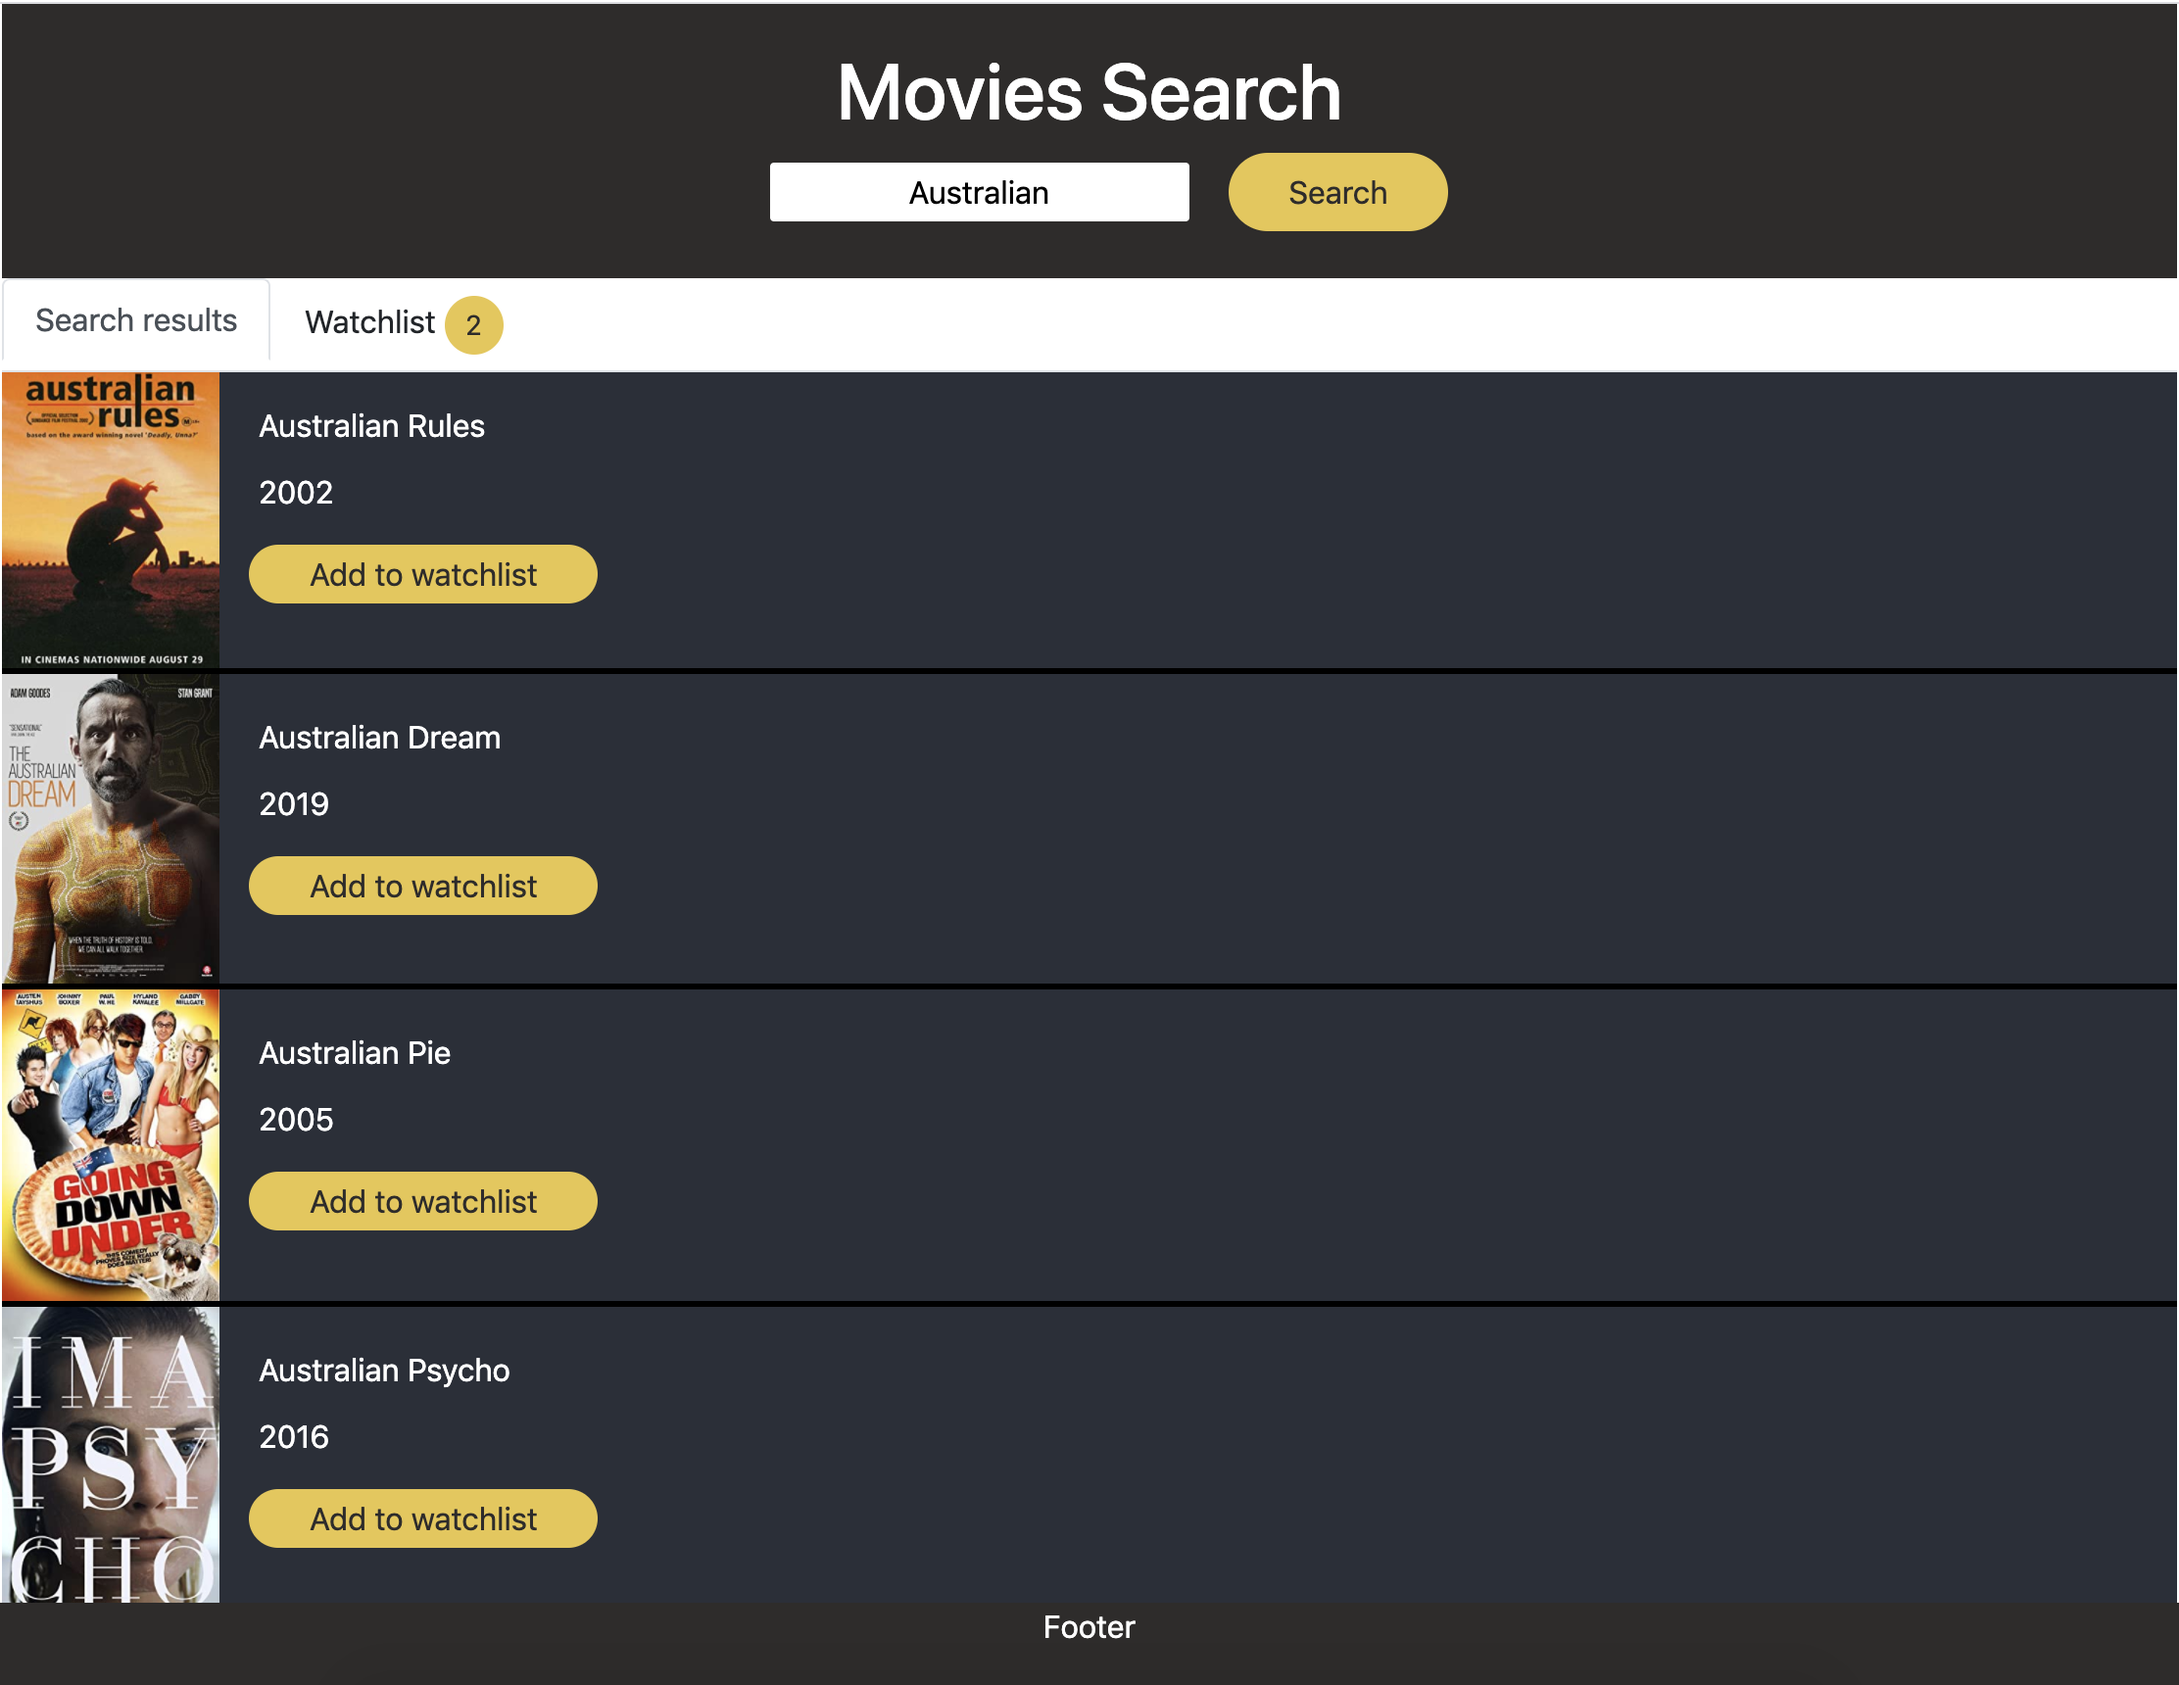
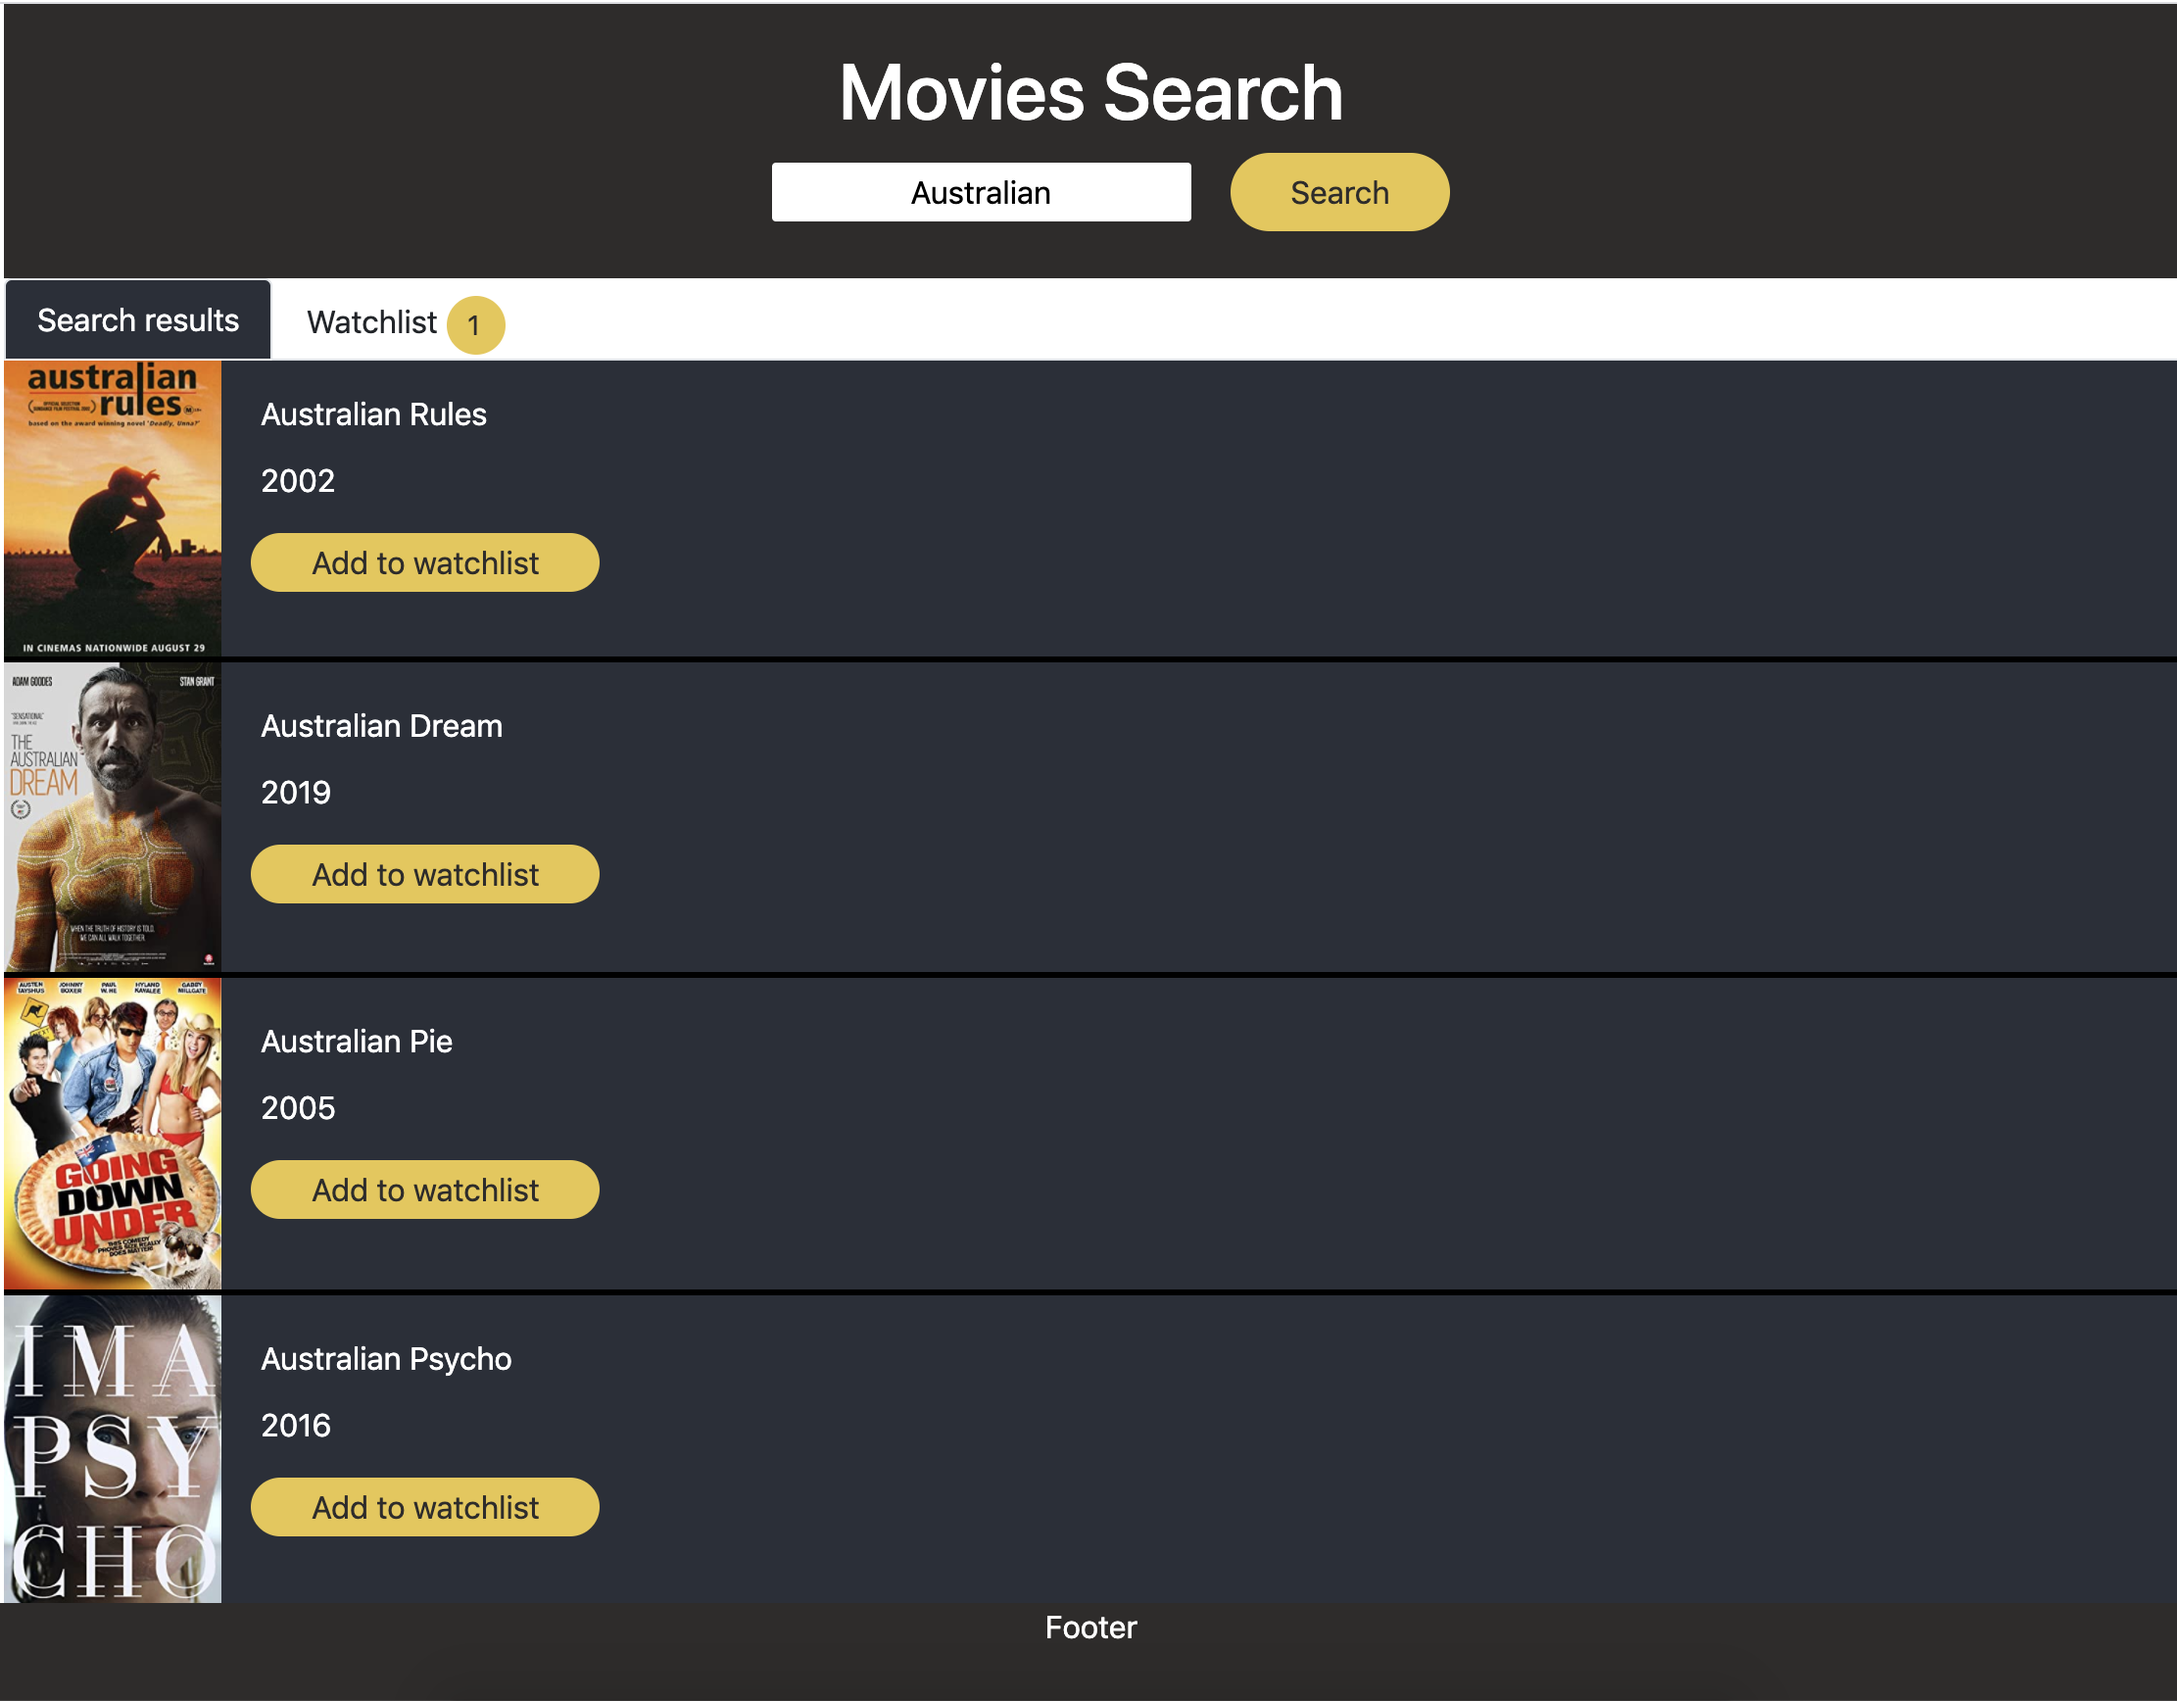
updated screenshot

diff --git a/public/index.html b/public/index.html
@@ -7,6 +7,17 @@
     <meta name="viewport" content="width=device-width, initial-scale=1" />
     <meta name="theme-color" content="#000000" />
     <title>Movie Search</title>
+    <style>
+      .nav-tabs .nav-link.active {
+        color: #ffffff !important;
+        border-color: #dee2e6 #dee2e6 #fff;
+        background-color: #2a2f39 !important;
+      }
+
+      .nav-tabs .nav-item {
+        margin-bottom: -7px !important;
+      }
+    </style>
   </head>
   <body>
     <noscript>You need to enable JavaScript to run this app.</noscript>
